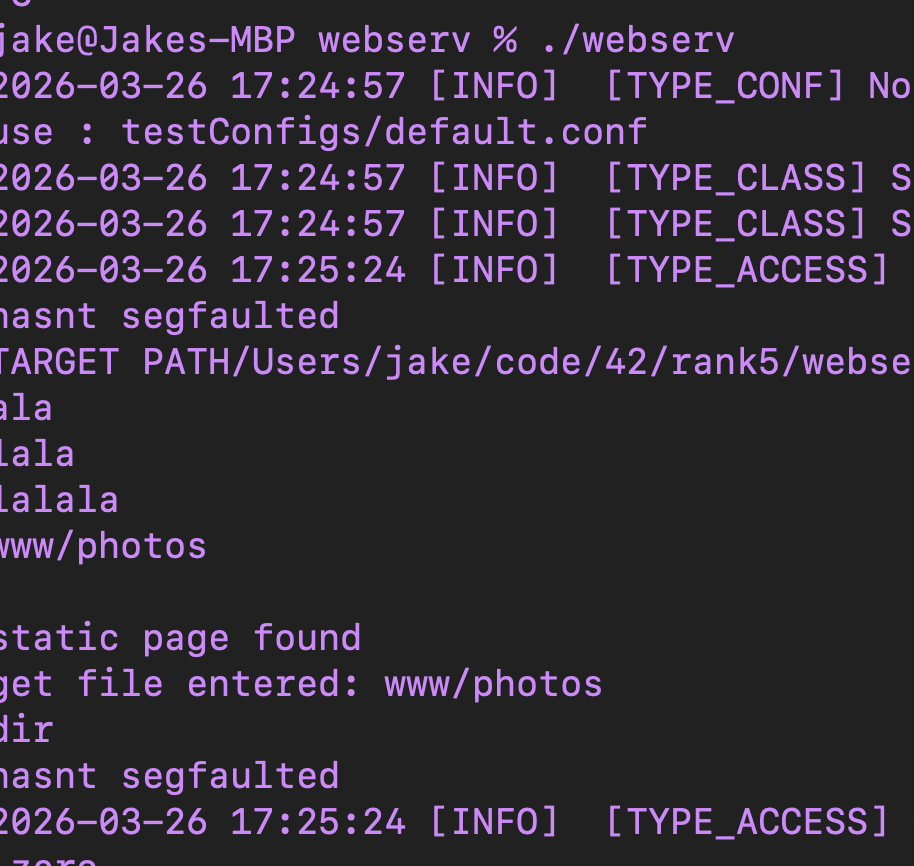
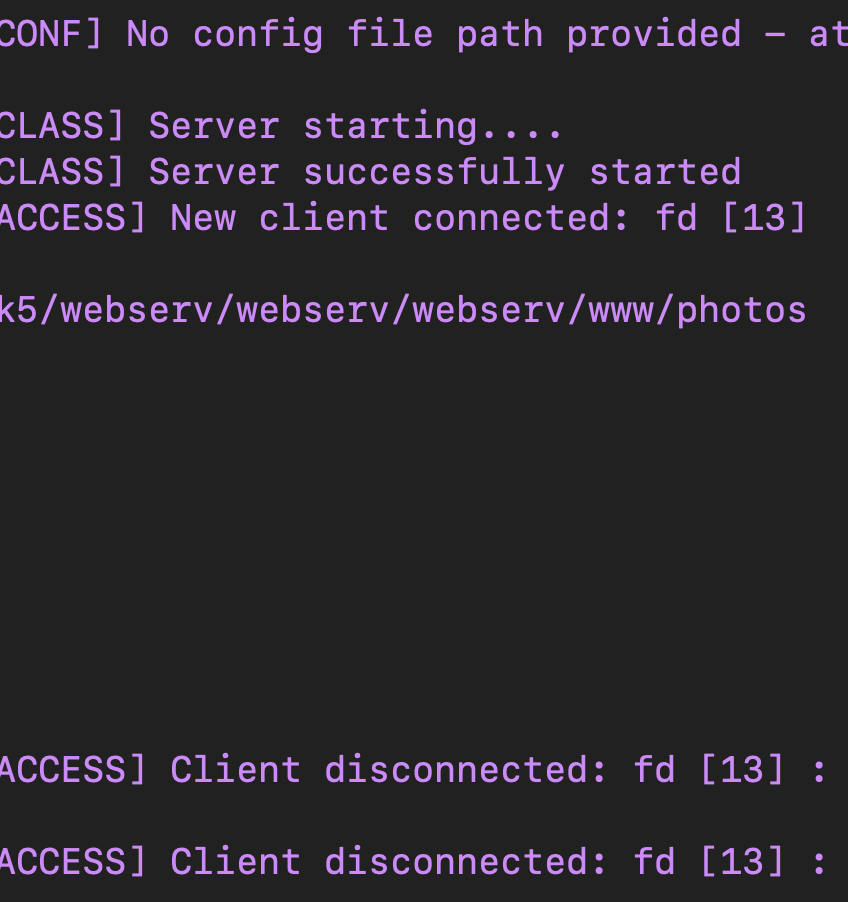
client timeout and other minor adjustments

diff --git a/webserv/www/html/site.html b/webserv/www/html/site.html
@@ -44,7 +44,7 @@
 					<button type="submit">Upload</button>
 				</div>
 			</form>
-			<form action="/photos" method="GET">
+			<form action="/upload" method="GET">
 				<div>
 					<button type="submit">View Gallery</button>
 				</div> 

diff --git a/webserv/srcs/Server.cpp b/webserv/srcs/Server.cpp
@@ -218,7 +218,7 @@ void	Server::loop(){
 
 	while (true) {
 		
-		int activity = poll(&_sockets[0], _sockets.size(), -1);
+		int activity = poll(&_sockets[0], _sockets.size(), 1000);
 		
 		if (activity < 0){
 			Log::instance().log(Log::INFO, Log::TYPE_CLASS, "Signal received : exiting server", true);
@@ -226,6 +226,7 @@ void	Server::loop(){
 		}
 		if (!handleEvents())
 			break;
+		checkTimeouts();
 	}
 }
 
@@ -314,6 +315,8 @@ void	Server::addClient(int client_fd, int listen_index){
 
 	Client	new_client(&_listen_sockets[listen_index], client_fd);
 
+	new_client.setLastActivity();
+
 	_clients.insert(std::make_pair(client_fd, new_client));
 
 	pollfd pfd;
@@ -335,6 +338,7 @@ void	Server::handleClientRead(int fd, bool pipe_closed){
 		return;
 	}
 	Client&	client = it->second;
+	client.setLastActivity();
 
 	char buffer[BUF_SIZE];
 
@@ -365,7 +369,8 @@ void    Server::handleClientWrite(int fd)
 	}
 
     Client& client = it->second;
-    std::string &response = client.get_msg();
+	client.setLastActivity();
+	std::string &response = client.get_msg();
 
     ssize_t sent = send(fd, response.c_str(), response.size(), 0);
 
@@ -383,6 +388,62 @@ void    Server::handleClientWrite(int fd)
         }
     }
 }
+
+void Server::checkTimeouts()
+{
+    std::time_t now = std::time(0);
+    std::vector<int> timedOutFds;
+	int					timeout_limit;
+
+    for (std::map<int, Client>::iterator it = _clients.begin(); it != _clients.end(); ++it)
+    {
+        timeout_limit = it->second.getServerTimeout();
+        
+        if (timeout_limit < 0)
+        {
+            if (_config && _config->isTimeoutKASet())
+                timeout_limit = _config->getTimeoutKA();
+            else
+                timeout_limit = 10;
+        }
+        if (difftime(now, it->second.getLastActivity()) > timeout_limit) {
+            timedOutFds.push_back(it->first);
+        }
+    }
+    for (size_t i = 0; i < timedOutFds.size(); ++i)
+	{
+
+        disconnectClient(timedOutFds[i], "Timeout");
+    }
+}
+
+// void Server::checkTimeouts()
+// {
+//     std::time_t now = std::time(0);
+//     int	timeout_limit = 10;
+// 	std::map<int, Client>::iterator current;
+
+//     std::map<int, Client>::iterator it = _clients.begin();
+//     while (it != _clients.end())
+// 	{
+//         current = it++;  // increment the iterator before potentially erasing
+// 		if ((timeout_limit = (*current).second.getServerTimeout()) < 0)
+// 		{
+// 			if (_config->isTimeoutKASet())
+// 				timeout_limit = _config->getTimeoutKA();
+// 			else
+// 				timeout_limit = 10;
+// 		}
+//         if (difftime(now, current->second.getLastActivity()) > timeout_limit) {
+//             Log::instance().log(Log::INFO, Log::TYPE_ACCESS, 
+//                 "Closing connection: Timeout on fd [" + toString(current->first) + "]", true);
+            
+//             // Re-use your existing disconnect logic
+//             int fd_to_close = current->first;
+//             disconnectClient(fd_to_close, "Timeout");
+//         }
+//     }
+// }
 
 /*
 >>>>>>>>>>>>>>>>>>>>><<<<<<<<<<<<<<<<<<<<<

diff --git a/webserv/srcs/Client.cpp b/webserv/srcs/Client.cpp
@@ -102,6 +102,20 @@ std::string&	Client::get_msg(){
 	return(_out_buff);
 }
 
+int	Client::getServerTimeout()
+{
+	if (_matched_server && _matched_server->isTimeoutKASet())
+	{
+		return(_matched_server->getTimeoutKA());
+	}
+	return (-1);
+}
+
+time_t	Client::getLastActivity()
+{
+	return(_last_active);
+}
+
 /*
 >>>>>>>>>>>>>>>>><<<<<<<<<<<<<<<<<
 >>>>>>		HANDLERS		<<<<<<
@@ -227,10 +241,8 @@ void Client::handle_request()
 	std::cout << "path hr: " << path << std::endl;
 	//std::cout << _matched_location->getRedirect().url << std::endl;
 
-	if (!_matched_location)
-	{
-		_response = new ErrorResponse(NOT_FOUND_ERROR, _request);
-	}
+	if (_request._re.type == RESPOND_ERROR)
+		_response = new ErrorResponse(_request._errNum, _request);
 	/* int			error_catch = 0;
 	respond_t&	re = _request._re;
 
@@ -269,7 +281,7 @@ void Client::handle_request()
 			_response = new ErrorResponse(error_catch, _request);
 	}
 
-	else if (path.find(CGI_PATH) != std::string::npos)//_request.isCGI
+	else if (_request._isCGI)//_request.isCGI
 	{
 		std::cout << "cgi found" << std::endl;
 		fileInfo_s info;
@@ -506,4 +518,11 @@ std::string	printReqStatus(Request& _request, int fd){
 	}
 	std::string result = os.str();
 	return result;
+}
+
+//setters
+
+void				Client::setLastActivity()
+{
+	_last_active = std::time(0);
 }

diff --git a/webserv/includes/Client.hpp b/webserv/includes/Client.hpp
@@ -51,6 +51,8 @@ class Client {
 			eConn				getConn(void);
 			std::string& 		get_msg();
 			int			 		getFD();
+			int					getServerTimeout();
+			time_t				getLastActivity();
 
 								/* HANDLERS */
 			bool				handleClientRead(const char *buffer, size_t len);
@@ -61,6 +63,8 @@ class Client {
 								/* WRITING */
 			void 				append_write(std::string str);
 			void				generateLogMessage(void);
+								/* SETTERS */
+			void				setLastActivity();
 
 	private:
 

diff --git a/webserv/srcs/response/RediResponse.cpp b/webserv/srcs/response/RediResponse.cpp
@@ -105,9 +105,8 @@ int RediResponse::save_file(std::string filename, std::string file_body)
 		ext = filename.substr(dot);
 	}
 
-	std::string file_path = "../photos/" + filename;
-	//std::string file_path = _request._re.paths.upload_paths[0];
-	base = "../photos/" + base;
+	std::string file_path = _request._re.paths.upload_base + filename;
+	base = _request._re.paths.upload_base + base;
 	int i = 2;
 
 	while (file_exists(file_path.c_str()))

diff --git a/webserv/srcs/response/SuccessResponse.cpp b/webserv/srcs/response/SuccessResponse.cpp
@@ -207,8 +207,8 @@ int SuccessResponse::get_file()
 	
 	if (info.is_dir)
 	{
-		std::cout << "dir" << std::endl;
-		if (_path.find(_request._re.paths.upload_base) != std::string::npos)
+		std::cout << "dir " << _request._re.paths.upload_base << std::endl;
+		if (_request._matched_location->isUploadPathSet() && _path.find(_request._re.paths.upload_base) != std::string::npos)
 			gen_index_page(true);
 		else
 		{

diff --git a/webserv/srcs/response/Response.cpp b/webserv/srcs/response/Response.cpp
@@ -70,7 +70,7 @@ std::string Response::status_text()
 
 		case 500: return "Internal Server Error";
 		case 501: return "Not Implemented"; //TODO where do we check if requested method is implemented
-		//case 502: return "Bad Gateway";
+		case 502: return "Bad Gateway";
 		case 503: return "Service Unavailable";
 		case 504: return "Gateway Timeout";
 		//etc

diff --git a/webserv/includes/response/Response.hpp b/webserv/includes/response/Response.hpp
@@ -8,9 +8,6 @@
 #include "helpers.hpp"
 
 #define HTTP_VERSION "HTTP/1.1"
-#define CGI_PATH "www/cgi-bin/"
-#define HTML_PATH "www/html"
-#define PHOTO_PATH "www/photos"
 #define NOT_FOUND_ERROR 404
 #define BAD_REQUEST_ERROR 400
 #define FILE_UPLOAD_REDIREC 303

diff --git a/webserv/includes/Server.hpp b/webserv/includes/Server.hpp
@@ -60,6 +60,7 @@ class Server {
 		
 		void	handleClientRead(int fd, bool pipe_closed);
 		void	handleClientWrite(int fd);
+		void	checkTimeouts();
 		
 		void	disconnectClient(int fd, const std::string& reason);
 		void	removeClientFromPoll(int fd);
